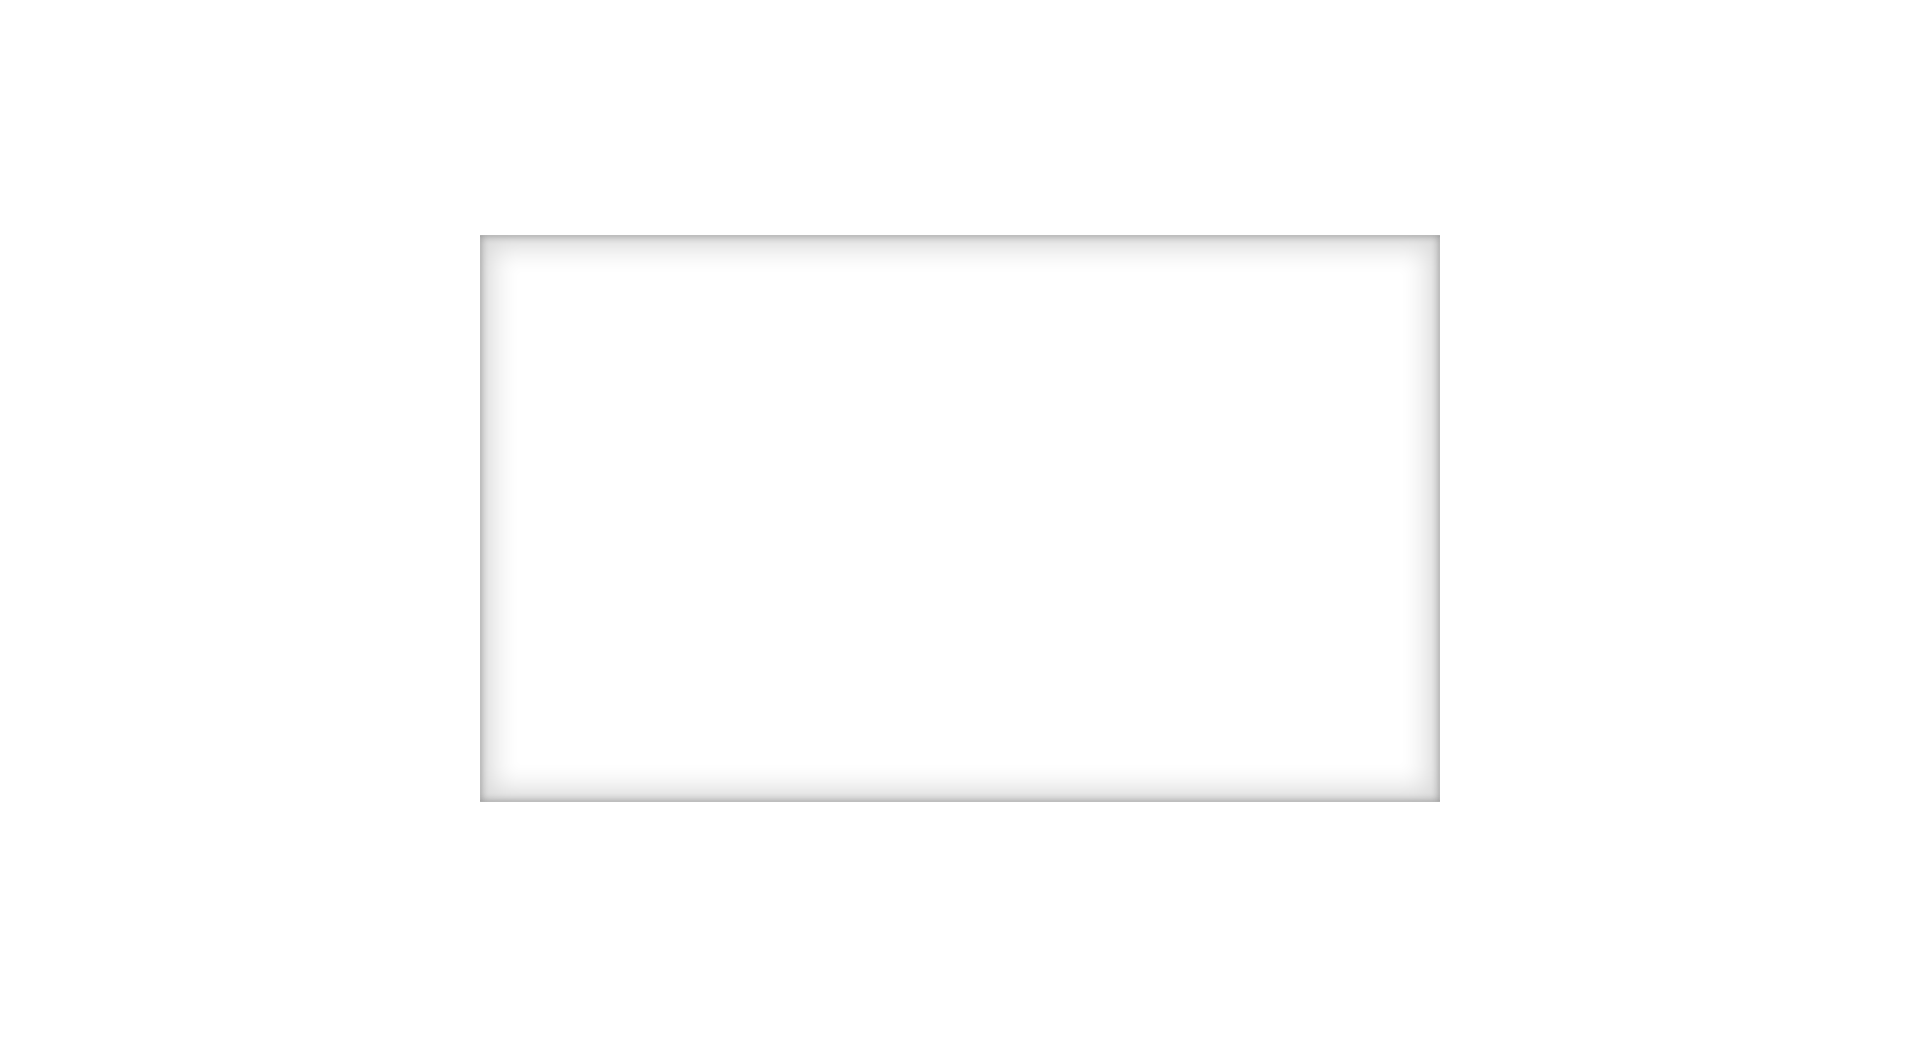
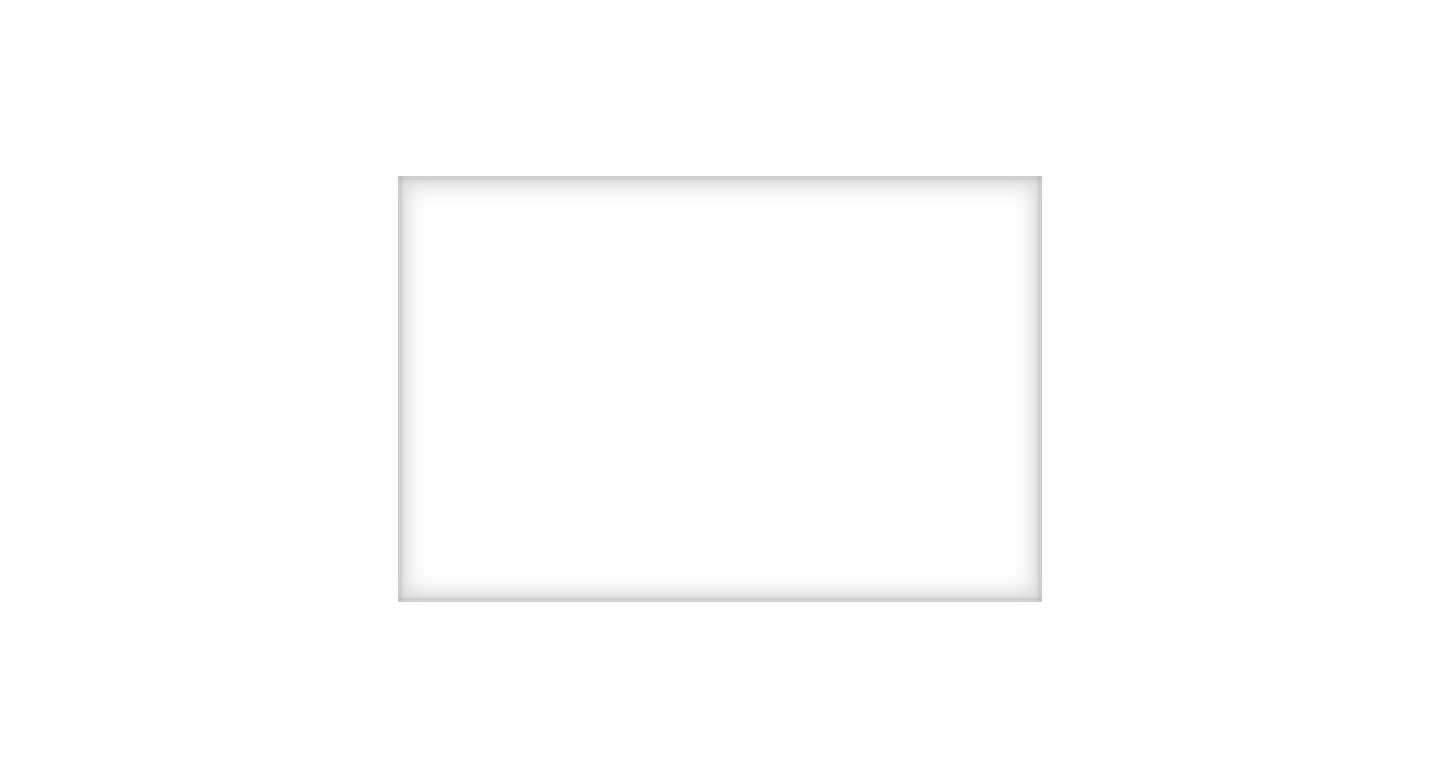
c

Changed region(s): [[0.7188, 0.2159, 0.75, 0.7712], [0.25, 0.2159, 0.2812, 0.7712]]

diff --git a/story/css/index.css b/story/css/index.css
@@ -1,1 +1,1 @@
-.version.index{color:#000003;background-color:#276F0E;}#page{z-index:1;width:800px;min-height:1000px;background-image:none;border-width:0px;border-color:#000000;background-color:transparent;margin-left:auto;margin-right:auto;}#pu102737{z-index:3;width:0.01px;height:0px;padding-bottom:778px;margin-right:-10000px;}#u102737{z-index:3;width:720px;background-color:transparent;position:fixed;top:176px;left:40px;}#u102745{z-index:5;width:720px;background-color:transparent;position:fixed;top:176px;left:60px;}#u102753{z-index:7;width:720px;background-color:transparent;position:fixed;top:176px;left:80px;}#u102761{z-index:9;width:720px;background-color:transparent;position:fixed;top:176px;left:100px;}#u102769{z-index:11;width:720px;background-color:transparent;position:fixed;top:176px;left:120px;}#u102777{z-index:13;width:720px;background-color:transparent;position:fixed;top:176px;left:140px;}#u103171{z-index:15;width:1440px;background-color:transparent;position:fixed;top:0px;left:-320px;}#u103493{z-index:17;width:420px;background-color:transparent;opacity:0.2;-ms-filter:"progid:DXImageTransform.Microsoft.Alpha(Opacity=20)";filter:alpha(opacity=20);position:fixed;top:70px;left:190px;}#u102811{z-index:2;width:100px;height:1350px;position:relative;margin-right:-10000px;left:350px;}.ie #u102811{background-color:#FFFFFF;opacity:0.01;-ms-filter:"progid:DXImageTransform.Microsoft.Alpha(Opacity=1)";filter:alpha(opacity=1);}.css_verticalspacer .verticalspacer{height:calc(100vh - 1350px);}#muse_css_mq,.html{background-color:#FFFFFF;}body{position:relative;min-width:800px;}
+.version.index{color:#000006;background-color:#02F5E0;}#page{z-index:1;width:800px;min-height:1000px;background-image:none;border-width:0px;border-color:#000000;background-color:transparent;margin-left:auto;margin-right:auto;}#pu102737{z-index:3;width:0.01px;height:0px;padding-bottom:778px;margin-right:-10000px;}#u102737{z-index:3;width:720px;background-color:transparent;position:fixed;top:176px;left:40px;}#u102745{z-index:5;width:720px;background-color:transparent;position:fixed;top:176px;left:60px;}#u102753{z-index:7;width:720px;background-color:transparent;position:fixed;top:176px;left:80px;}#u102761{z-index:9;width:720px;background-color:transparent;position:fixed;top:176px;left:100px;}#u102769{z-index:11;width:720px;background-color:transparent;position:fixed;top:176px;left:120px;}#u102777{z-index:13;width:720px;background-color:transparent;position:fixed;top:176px;left:140px;}#u103171{z-index:15;width:1440px;background-color:transparent;position:fixed;top:0px;left:-320px;}#u103493{z-index:17;width:420px;background-color:transparent;opacity:0.25;-ms-filter:"progid:DXImageTransform.Microsoft.Alpha(Opacity=25)";filter:alpha(opacity=25);position:fixed;top:70px;left:190px;}#u103493_img{padding-right:2px;}#u102811{z-index:2;width:100px;height:1350px;position:relative;margin-right:-10000px;left:350px;}.ie #u102811{background-color:#FFFFFF;opacity:0.01;-ms-filter:"progid:DXImageTransform.Microsoft.Alpha(Opacity=1)";filter:alpha(opacity=1);}.css_verticalspacer .verticalspacer{height:calc(100vh - 1350px);}#muse_css_mq,.html{background-color:#FFFFFF;}body{position:relative;min-width:800px;}

diff --git a/story/c2.html b/story/c2.html
@@ -17,7 +17,7 @@ if(typeof Muse == "undefined") window.Muse = {}; window.Muse.assets = {"required
   <title>茶茶</title>
   <!-- CSS -->
   <link rel="stylesheet" type="text/css" href="css/site_global.css?crc=229390053"/>
-  <link rel="stylesheet" type="text/css" href="css/index.css?crc=52915982" id="pagesheet"/>
+  <link rel="stylesheet" type="text/css" href="css/index.css?crc=100857312" id="pagesheet"/>
    </head>
  <body>
 
@@ -42,10 +42,10 @@ if(typeof Muse == "undefined") window.Muse = {}; window.Muse.assets = {"required
      <img class="block" id="u102777_img" src="images/p2-06.png?crc=463282910" data-hidpi-src="images/p2-06_2x.png?crc=3967581559" alt="" width="720" height="425"/>
     </div>
     <div class="clip_frame mse_pre_init" id="u103171"><!-- image -->
-     <img class="block" id="u103171_img" src="images/mask.png?crc=536684874" alt="" width="1440" height="778"/>
+     <img class="block" id="u103171_img" src="images/mask.png?crc=3846868996" alt="" width="1440" height="778"/>
     </div>
     <div class="clip_frame mse_pre_init" id="u103493"><!-- image -->
-     <img class="block" id="u103493_img" src="images/page.png?crc=248154989" data-hidpi-src="images/page_2x.png?crc=70755116" alt="" width="420" height="70"/>
+     <img class="block" id="u103493_img" src="images/page.png?crc=320999997" data-hidpi-src="images/page_2x.png?crc=4165972487" alt="" width="418" height="70"/>
     </div>
    </div>
    <div class="grpelem" id="u102811"><!-- simple frame --></div>

diff --git a/story/c3.html b/story/c3.html
@@ -17,7 +17,7 @@ if(typeof Muse == "undefined") window.Muse = {}; window.Muse.assets = {"required
   <title>茶茶</title>
   <!-- CSS -->
   <link rel="stylesheet" type="text/css" href="css/site_global.css?crc=229390053"/>
-  <link rel="stylesheet" type="text/css" href="css/index.css?crc=52915982" id="pagesheet"/>
+  <link rel="stylesheet" type="text/css" href="css/index.css?crc=100857312" id="pagesheet"/>
    </head>
  <body>
 
@@ -42,10 +42,10 @@ if(typeof Muse == "undefined") window.Muse = {}; window.Muse.assets = {"required
      <img class="block" id="u102777_img" src="images/p2-06.png?crc=463282910" data-hidpi-src="images/p2-06_2x.png?crc=3967581559" alt="" width="720" height="425"/>
     </div>
     <div class="clip_frame mse_pre_init" id="u103171"><!-- image -->
-     <img class="block" id="u103171_img" src="images/mask.png?crc=536684874" alt="" width="1440" height="778"/>
+     <img class="block" id="u103171_img" src="images/mask.png?crc=3846868996" alt="" width="1440" height="778"/>
     </div>
     <div class="clip_frame mse_pre_init" id="u103493"><!-- image -->
-     <img class="block" id="u103493_img" src="images/page.png?crc=248154989" data-hidpi-src="images/page_2x.png?crc=70755116" alt="" width="420" height="70"/>
+     <img class="block" id="u103493_img" src="images/page.png?crc=320999997" data-hidpi-src="images/page_2x.png?crc=4165972487" alt="" width="418" height="70"/>
     </div>
    </div>
    <div class="grpelem" id="u102811"><!-- simple frame --></div>

diff --git a/story/index.html b/story/index.html
@@ -17,7 +17,7 @@ if(typeof Muse == "undefined") window.Muse = {}; window.Muse.assets = {"required
   <title>茶茶</title>
   <!-- CSS -->
   <link rel="stylesheet" type="text/css" href="css/site_global.css?crc=229390053"/>
-  <link rel="stylesheet" type="text/css" href="css/index.css?crc=52915982" id="pagesheet"/>
+  <link rel="stylesheet" type="text/css" href="css/index.css?crc=100857312" id="pagesheet"/>
    </head>
  <body>
 
@@ -42,10 +42,10 @@ if(typeof Muse == "undefined") window.Muse = {}; window.Muse.assets = {"required
      <img class="block" id="u102777_img" src="images/p2-06.png?crc=463282910" data-hidpi-src="images/p2-06_2x.png?crc=3967581559" alt="" width="720" height="425"/>
     </div>
     <div class="clip_frame mse_pre_init" id="u103171"><!-- image -->
-     <img class="block" id="u103171_img" src="images/mask.png?crc=536684874" alt="" width="1440" height="778"/>
+     <img class="block" id="u103171_img" src="images/mask.png?crc=3846868996" alt="" width="1440" height="778"/>
     </div>
     <div class="clip_frame mse_pre_init" id="u103493"><!-- image -->
-     <img class="block" id="u103493_img" src="images/page.png?crc=248154989" data-hidpi-src="images/page_2x.png?crc=70755116" alt="" width="420" height="70"/>
+     <img class="block" id="u103493_img" src="images/page.png?crc=320999997" data-hidpi-src="images/page_2x.png?crc=4165972487" alt="" width="418" height="70"/>
     </div>
    </div>
    <div class="grpelem" id="u102811"><!-- simple frame --></div>
